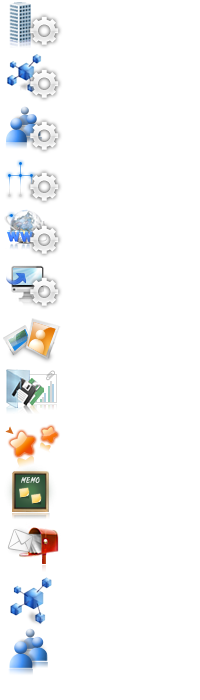
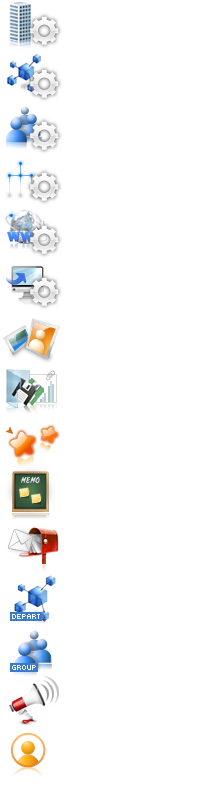
공간 타이틀 부분 수정

Changed region(s): [[0.03, 0.0, 0.3, 0.99]]

diff --git a/WebContent/css/black/detail.css b/WebContent/css/black/detail.css
@@ -9,10 +9,11 @@
 .body_titl .txt_btn {font-family: '돋움',Dotum; font-size: 11px; font-weight: normal; padding: 28px 0 4px 0; text-align: right} /* 타이틀 우측으로 버튼 */
 .body_titl .txt_btn .pho_user {width:22px}
 .body_titl .bul_space {background: url("../../images/body_icon.png") no-repeat 0 -619px transparent; height:7px; padding:0 0 0 10px; margin-left:3px; font-weight:bold; color:#919191}
-.body_titl .info {font-size:11px; margin: 4px 0 3px; line-height:16px}
+.body_titl .info {font-size:11px; line-height:17px; display: table-cell; height: 50px; vertical-align: bottom}
 .body_titl .info > .title { font-size:16px; font-weight:bold; height:auto; float:none}
 .body_titl img { width:50px; height:52px; padding:0 13px 0 0}
-.body_titl .solid_line {margin: 3px 0 10px}
+.body_titl.space {padding: 0 7px 15px}
+.body_titl.list {padding: 0 7px 5px}
 
 .body_titl_pic { padding:5px 15px 15px; overflow:hidden} /* 본문 페이지 타이틀 - 사람사진이 들어갈 경우 */
 .body_titl_pic .txt_btn {font-family:'돋움',Dotum; font-size: 11px; font-weight:normal}
@@ -21,16 +22,17 @@
 .body_titl_pic .title_section {position:absolute}
 .body_titl_pworks {background: url("../../images/body_title_proces.png") no-repeat 0 -2px transparent; padding:22px 0 0 68px; line-height:18px}
 .body_titl_iworks {background: url("../../images/body_title_inform.png") no-repeat 0 -2px transparent; padding:22px 0 0 68px; line-height:18px}
-.body_titl_group {background: url("../../images/body_title.png") no-repeat 0 -624px transparent; padding:0 13px 0 0; line-height:18px; min-height:52px; width:50px}
-.body_titl_depart {background: url("../../images/body_title.png") no-repeat 0 -574px transparent; padding:0 13px 0 0; line-height:18px; min-height:52px; width:50px}
-.body_titl_set {background: url("../../images/body_title_set.png") no-repeat 0 -2px transparent; padding:22px 0 0 53px; line-height:18px}
+.body_titl > .group {background: url("../../images/body_title.png") no-repeat 0 -625px transparent; padding:0 13px 0 0; line-height:18px; min-height:52px; width:50px}
+.body_titl > .depart {background: url("../../images/body_title.png") no-repeat 0 -574px transparent; padding:0 13px 0 0; line-height:18px; min-height:52px; width:50px}
+.body_titl > .user {background: url("../../images/body_title.png") no-repeat 0 -725px transparent; padding:0 13px 0 0; line-height:18px; min-height:52px; width:50px}
+
 .body_titl_area {background: url("../../images/body_title.png") no-repeat 0 0 transparent; padding:22px 0 0 68px; line-height:18px}
 .body_titl_area.ti_company {background-position:0 0}
 .body_titl_area.ti_organization {background-position:0 -52px}
 .body_titl_area.ti_approval {background-position:0 -156px}
 .body_titl_area.ti_webservice {background-position:0 -208px}
 .body_titl_area.ti_externalform {background-position:0 -260px}
-.body_titl_area.ti_picture {background-position:0 -312px}
+.body_titl_area.ti_picture {background-position:0 -313px}
 .body_titl_area.ti_file {background-position:0 -364px}
 .body_titl_area.ti_event {background-position:0 -416px}
 .body_titl_area.ti_memo {background-position:0 -468px}
@@ -41,7 +43,7 @@
 
 /* 본문 컨텐츠 */
 .define_space {padding: 0 25px; overflow: hidden} /* 상하 여백이 필요 없을때 */
-.contents_space {padding: 0 25px 10px}
+.contents_space {padding: 0 20px 10px}
 .contents_space .det_title, .reply .det_title {padding:5px 0; overflow:hidden} /* 타이틀 */
 .contents_space .area {padding:10px}
 .contents_space .border {border:1px solid #c7c7c7; background-color:#FFF; padding:10px}
@@ -74,7 +76,7 @@
 .reply_input {margin:5px 0 0 0} /* 댓글 입력 영역 */
 #upload_form_box .reply_input {margin:5px} /* Reply Input in upload_form_box */
 
-.list_reply li, .reply > ul > li, .space_section li {border-bottom: 1px dashed #9c9c9c; vertical-align: middle; overflow: hidden}
+.list_reply li, .reply > ul > li, .space_section li {border-bottom: 1px dotted #9c9c9c; vertical-align: middle; overflow: hidden}
 .list_reply li {padding:0}
 .list_reply .end, .reply .end, .noborder li {border-bottom: none !important; vertical-align: middle}
 .repl_tinfo {background: url("../../images/header_nico.png") no-repeat 4px -267px; padding:0 0 0 20px}
@@ -101,7 +103,7 @@ a .repl_write:hover {background: url("../../images/header_nico.png") no-repeat 0
 .list_contents table .tit_bg .file {width:16px}
 .list_contents table th {text-align:center}
 .list_contents table th, .list_contents table td {border-bottom: 1px dotted #C7C7C7}
-.list_contents table td {padding:2px 5px}
+.list_contents table td {padding:3px 5px}
 .list_contents table .tit_bg2 th {background-color:#F5F5F5; font-weight:normal}
 .list_contents table .tit_bg2 td {background-color:#FFF}
 .r_line {border-right:1px solid #cccccc}

diff --git a/WebContent/css/black/layout.css b/WebContent/css/black/layout.css
@@ -134,7 +134,7 @@ tr.list_action_item:hover td.btn_move_field .move_actions{display:block; cursor:
 /*Personal Info*/
 .personal_info {background: url("../../images/personal_info_bg.png")repeat-x scroll 0 0; padding:11px; border-bottom:1px solid #1f1f1f}
 .personal_info ul {overflow:hidden}
-.personal_info li {float:left; vertical-align:bottom; margin-right:6px; color:#dddddd; line-height: 17px } 
+.personal_info li {float:left; vertical-align:bottom; margin-right:6px; color:#dddddd; line-height: 16px } 
 .personal_info li.info { width:129px}
 .personal_info .pic {background: url("../../images/pic_personal_info.jpg"); display:inline; width:66px; height:66px; position:relative}
 .personal_info .setting {background: url("../../images/nav_setting.png"); display:inline; width:66px; height:66px; position:relative}
@@ -329,9 +329,10 @@ li.comment_list:hover {background-color:#fff7eb; cursor:pointer}
 #board {margin:5px 10px 10px 240px; color:#ea1a1a; font-family: '돋움',dotum,Helvetica,sans-serif; height:18px; z-index:20}
 
 /* UpLoad */
-#upload {width:100%; height:22px; margin: 0 2px; display:inline-block; position:relative}
+#upload {width:100%; height:22px; margin: 0 7px; display:inline-block; position:relative}
 #upload div a:hover, #upload div a:focus, #upload div a:active, #upload div a:link, #upload div a:visited {color: #333333; text-decoration:none}
 #upload div {float:left; padding-right:15px}
+#upload_form_box {margin: 0 5px}
 
 .up_wrap {position:relative; margin: 0 0 3px}
 .upload_up_wrap {width:760px}
@@ -382,7 +383,7 @@ li.comment_list:hover {background-color:#fff7eb; cursor:pointer}
 .input_1line_first { height:21px; padding-bottom: 5px; position:relative} /* 한줄라인 input정보- 맨위줄*/
 .input_1line {overflow:hidden; width:100%; position:relative; margin:8px 0} /* 한줄라인 input정보 */
 
-.txt_btn {font-family: Dotum; font-size: 11px; height: 16px; font-weight:normal}
+.txt_btn {font-family: Dotum; font-size: 11px; height: 19px; font-weight:normal}
 .txt_btn .po_right {float:right; margin-left:10px}
 .txt_btn .po_left {float:left; margin-right:10px}
 .txt_btn .po_left > span {line-height: 20px}
@@ -575,7 +576,7 @@ li.comment_list:hover {background-color:#fff7eb; cursor:pointer}
 .notice .recent_notice {float:right; width:87%}
 .notice > .left_title > a.more {background: url("../../images/main_notice.jpg") no-repeat; width:60px; height:28px; margin-right:6px; padding:100px 16px 0 0; font-size:10.5px; text-align:right; color:#b5b5b5 !important; display: inline-block;
 margin: 0 auto}
-.notice > .left_title > a.more:hover {background: url("../../images/main_notice.gif") -80px 0 no-repeat; color:#ba3938 !important; text-decoration: none}
+.notice > .left_title > a.more:hover {background: url("../../images/main_notice.jpg") -80px 0 no-repeat; color:#ba3938 !important; text-decoration: none}
 .left_title .title {display:block; font-size:13px; font-weight:bold; padding:7px 0 4px 0}
 .left_title .info {display:block; font-size:11px; color:#696969}
 .left_title .content {display:block; font-size:12px; border-top:1px dotted #cfcfcf; padding-top:2px; clear:right}
@@ -616,7 +617,7 @@ td.pic {width:85px}
 .subject_list .on a {color: #2F3743; font-weight: bold}
 	
 /* Mail */
-.buttonSet {margin:5px 0 7px}
+.buttonSet {padding:5px 0 7px}
 .buttonSet button {background: -moz-linear-gradient(center top , #FFFFFF, #EBEBEB) repeat scroll 0 0 #FFFFFF; background: -webkit-gradient(linear,0% 20%,0% 80%,from(white),to(#EBEBEB)); background: -o-linear-gradient(top,white,#EBEBEB); filter:progid:DXImageTransform.Microsoft.gradient(startColorStr=#ffffff,endColorStr=#ebebeb); text-decoration: none!important; border: 1px solid #A1A1A1; border-radius: 3px 3px 3px 3px; color: #555555; cursor: pointer; display: inline-block; letter-spacing: 0; margin: 0; overflow: visible; padding: 3px 5px 2px; text-decoration: none !important; vertical-align: middle}
 .buttonSet select {height:21px; margin:0; padding:0}
 .mail_list_section {line-height:19px}

diff --git a/WebContent/css/black/form.css b/WebContent/css/black/form.css
@@ -6,7 +6,7 @@
 .form_label, .form_value {float:left; margin:1px 0}
 .form_label {color:#23579e; font-weight: bold; text-align: right}
 .form_label > span {display: inline-block; margin: 0 17px 0 0; word-wrap: break-word;x}
-.form_layout td, .form_layout th {border-top: 1px dotted #c7c7c7}
+.form_layout td, .form_layout th {border-bottom: 1px dotted #c7c7c7}
 
 .js_type_imageBox .form_label {background-color:#FFF; width:0}
 
